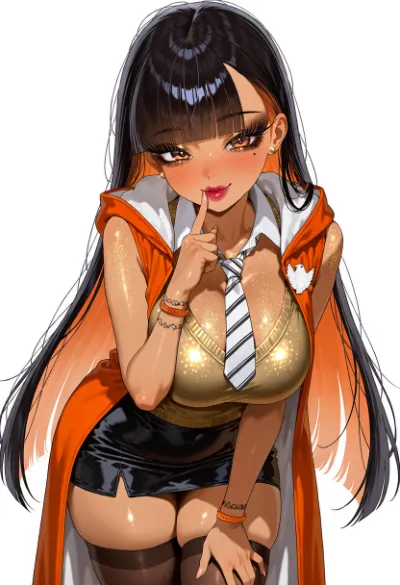
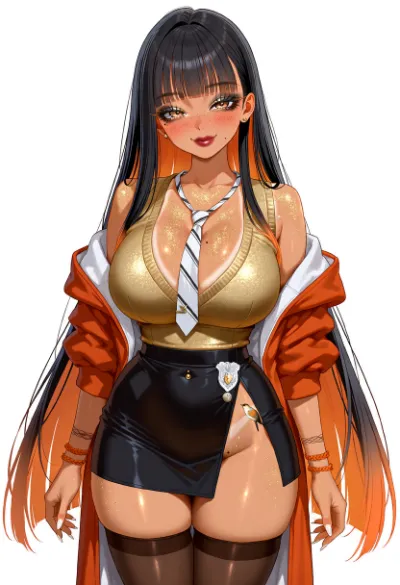
2.11: Oriole's portrait in the standard pose
Her portrait now stands straight, facing the viewer with her arms relaxed at
her sides, like every other girl's, built from her own House robes prompt.

diff --git a/js/ev-version.js b/js/ev-version.js
@@ -1,6 +1,6 @@
 /* Everspire: the version, shown beside the title in the studio's header. Bump EV_VERSION and EV_DATE before every push.
    (It lived in game-ui.js until the games were archived on 2026-11-17: branch archive/with-games.) */
-const EV_VERSION="2.10",EV_DATE="Nov 18, 2026";
+const EV_VERSION="2.11",EV_DATE="Nov 18, 2026";
 window.EVERSPIRE_VERSION=EV_VERSION;
 (function(){
   const put=()=>{const b=document.querySelector("header.top .brand");if(!b||b.querySelector(".ev-ver"))return;

diff --git a/index.html b/index.html
@@ -580,7 +580,7 @@ button,.btn,.chip,.opt,.rail-btn,.pick,.seg button,.tabs button,.swb,.start,labe
 <script src="js/blk-groups2.js?v=95318920"></script>
 <script src="js/blk-ux.js?v=3ca76aca"></script>
 <script src="js/blk-intimate.js?v=b5d00ccb"></script>
-<script src="js/ev-version.js?v=2ebaa0e6"></script>
+<script src="js/ev-version.js?v=85719d90"></script>
 <script src="js/part-22.js?v=9e08a57f"></script>
 </body>
 </html>
